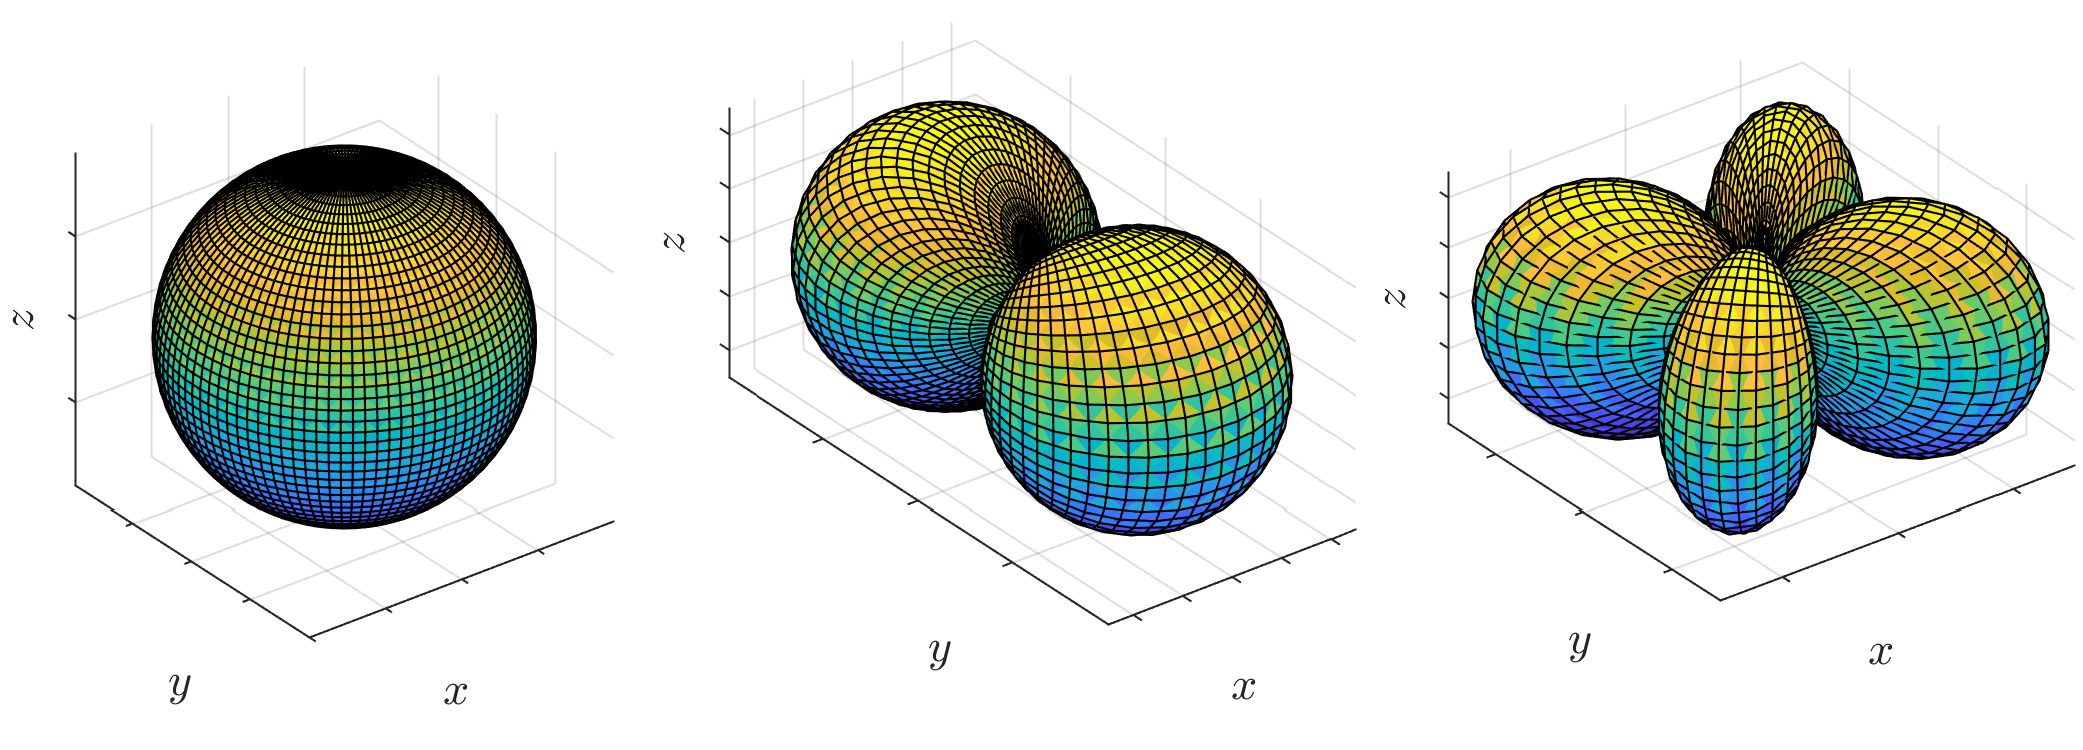
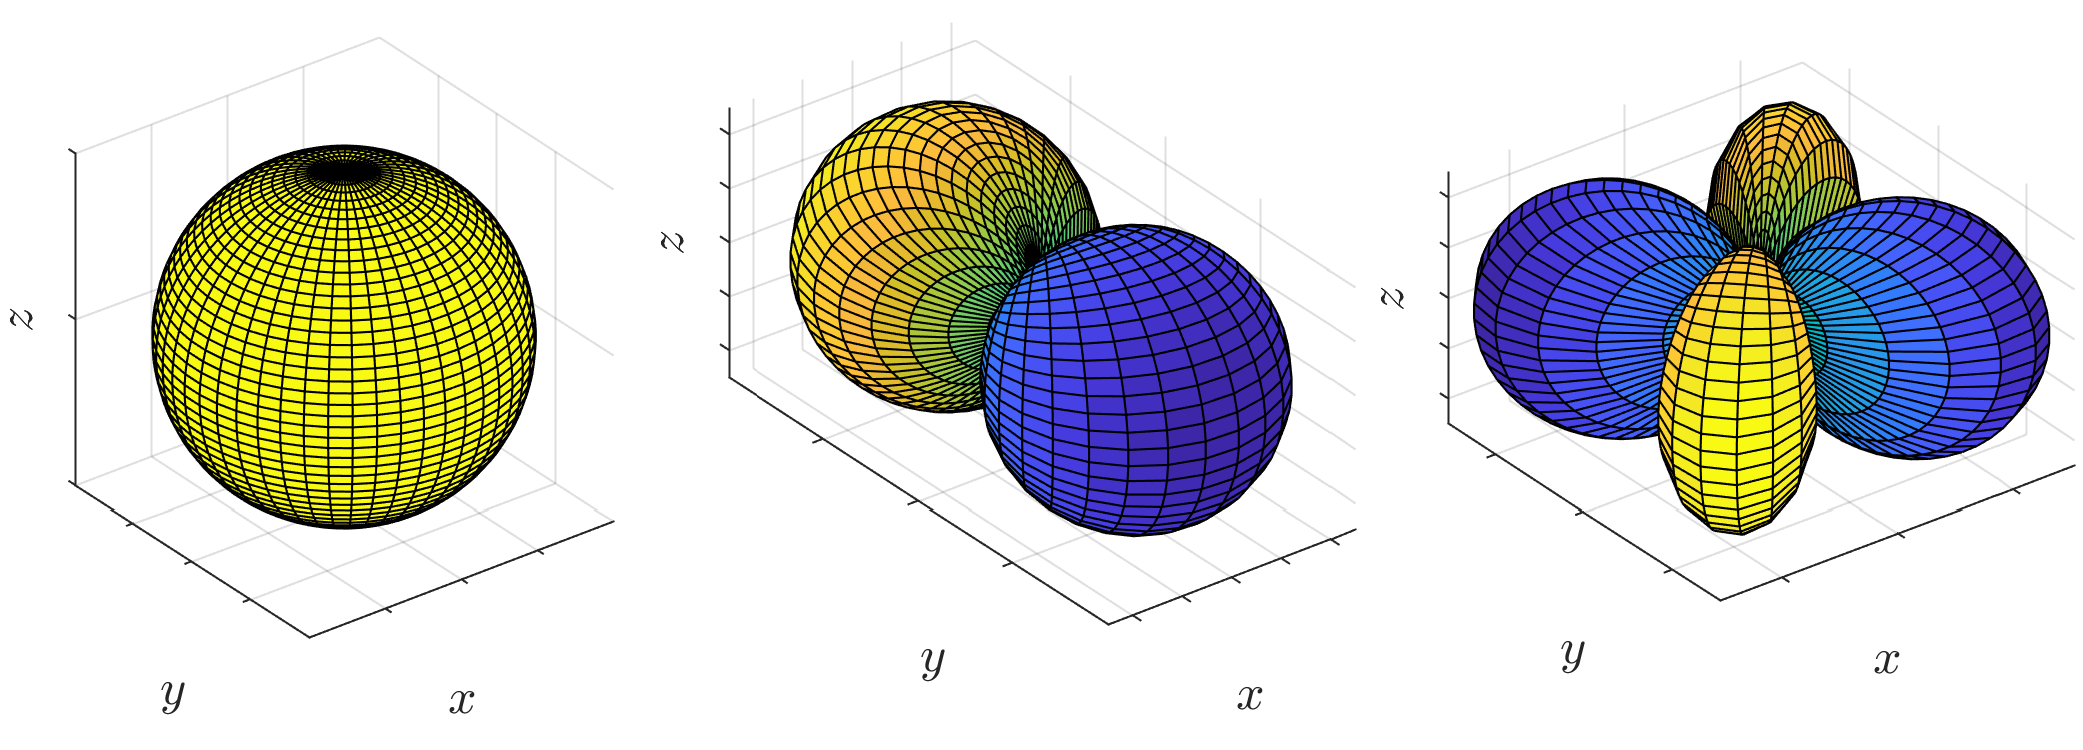
..

diff --git a/LatexProject/general_wave_theory.tex b/LatexProject/general_wave_theory.tex
@@ -352,15 +352,15 @@ P(\vx,\omega) = \frac{1}{4\pi^2}\iint_{-\infty}^{\infty} \tilde{P}(k_x,y_0,k_z,\
 \td k_x\td k_z.
 \label{Eq:Theory:Pressure_propagated}
 \end{equation}
-By expressing $\tilde{P}(k_x,y_0,k_z,\omega)$ in terms of the normal velocity $\tilde{V}_{\mathrm{n}}(k_x,y_0,k_z,\omega)$ using the Euler's equation  \eqref{Eq:Theory:Freq_Eulers_equation}, with the normal ($y$) derivative at $y = y_0$ calculated by applying the differentiation theorem one obtains
+By expressing $\tilde{P}(k_x,y_0,k_z,\omega)$ in terms of the normal velocity $\tilde{V}_{\mathrm{n}}(k_x,y_0,k_z,\omega)$ using the Euler's equation  \eqref{Eq:Theory:Freq_Eulers_equation}, with the normal ($y$-) derivative at $y = y_0$ calculated by applying the differentiation theorem one obtains
 \begin{equation}
 P(\vx,\omega) = \frac{1}{4\pi^2}\iint_{-\infty}^{\infty} 
-\underbrace{ \omega \rho_0 \tilde{V}_{\mathrm{n}}(k_x,y_0,k_z,\omega)}_{-\frac{1}{\ti} \frac{\partial}{\partial y} \tilde{P}(k_x,y_0,k_z,\omega) }
-\frac{\te^{-\ti k_y ( y - y_0 ) } }{k_y} \te^{- \ti \left( k_x x + k_z z \right) }
+\underbrace{ \ti \omega \rho_0 \tilde{V}_{\mathrm{n}}(k_x,y_0,k_z,\omega)}_{- \frac{\partial}{\partial y} \tilde{P}(k_x,y_0,k_z,\omega) }
+\frac{\te^{-\ti k_y ( y - y_0 ) } }{\ti k_y} \te^{- \ti \left( k_x x + k_z z \right) }
 \td k_x\td k_z.
 \label{Eq:Theory:Velocity_propagated}
 \end{equation}
-These formulations are of central importance in the field of Fourier acoustics. 
+These equations are of central importance in the field of Fourier acoustics. 
 They state that an arbitrary sound field is completely determined by either the pressure, or by the normal velocity component measured along an infinite plane. 
 Wave propagation is calculated by multiplying the measured spectra with an exponential term, referred to as the \emph{pressure propagator} $\tilde{G}_p$ in \eqref{Eq:Theory:Pressure_propagated} and the \emph{velocity propagator} $\tilde{G}_v$ in \eqref{Eq:Theory:Velocity_propagated}:
 \begin{equation}
@@ -400,14 +400,14 @@ For a detailed investigation refer to \cite{Williams1999, Zotter2009phd, Fazi201
 \subsection{The Green's function}
 %First the solution for \eqref{Eq:Theory:Inhomogene_wave_eq_time_domain} is introduced.
 A common way to obtain the solution for the inhomogeneous wave equation is using the \emph{Green's function}. 
-We define the $n$-dimensional \emph{Green's function} as the solution for the following equation \cite{Gumerov2004, Williams1999}
+The $n$-dimensional \emph{Green's function} is defined as the solution for the following equation \cite{Gumerov2004, Williams1999}
 \begin{equation}
 \nabla^2 g(\vx|\vxo,t) -\frac{1}{c^2}\frac{\partial^2}{\partial t^2} g(\vx|\vxo,t) = -\delta\left( \vx - \vxo \right)\delta\left( t \right),\label{Eq:Theory:Green_function_def}
 \end{equation}
 with $\vx, \vxo \in \mathbb{R}^{n}$ and $\delta()$ being the Dirac-delta distribution. 
-The Green's function describes the sound field at $\vx$ due to an impulsive disturbance located at $\vxo$ at the time instant $t_0$.
+The Green's function describes the sound field at $\vx$ due to an impulsive disturbance located at $\vxo$ at the time instant $t = 0$.
 The Green's function is often referred to as the \emph{spatio-temporal impulse response} of the domain of interest and its temporal Fourier transform $G(\vx|\vxo,\omega)$ as the \emph{spatio-temporal transfer function} of a point source at $\vxo$. 
-In the followings we assume free field conditions by implying the Sommerfeld radiation condition. 
+In the followings free field conditions are assumed by invoking the Sommerfeld radiation condition. 
 Under these assumptions the \emph{free field Green's function} is translation invariant, denoted by $g(\vx-\vxo,t)$.
 Furthermore, in a stationary isotropic medium the \emph{reciprocity principle} for the Green's function holds due to its symmetry \cite{Stakgold2011}
 \begin{eqnarray}
@@ -449,13 +449,14 @@ and the solution in the spatio-temporal domain is yielded by the inverse Fourier
 p(\vx,t) =\frac{1}{(2\pi)^4} \iiiint^{\infty}_{-\infty} - \frac{\tilde{S}(\mathbf{k},\omega)}{\left( \frac{\omega}{c}\right)^2 -  k_x^2 - k_y^2 - k_z^2 } \te^{-\ti \left( \left< \vk \cdot \vx \right> - \omega t \right) } \td k_x \td k_y \td k_z \td \omega.
 \end{equation}
 The different representations of the free field Green's function may be obtained by the corresponding inverse Fourier transform of \eqref{Eq:Theory:3D_kxkykzw_Green}.
-The resulting formulas are collected in Table\ \ref{tab:theory:Greens_fun_representations} by taking only the causal solutions into consideration.
+The resulting formulas are collected in Table\ \ref{tab:theory:Greens_fun_representations} by taking only the causal solutions into consideration,
+with two representations of the 3D Green's function are depicted in Figure \ref{Fig:Theory:Greens_function}.
 
 \begin{table}[h!]
 \caption{Free field acoustic Green's function representations ($\vxo = 0$) \cite{Devaney2012, Duffy2001:Greens, Ahrens2010a, Ahrens2012, Gibson2008, DeSanto1992}.
 $\theta\left( \right)$ denotes the Heaviside step function, $H_0^{(2)}\left( \right)$ is the zeroth order Hankel function of the second kind and $K_0
 \left( \right)$ is the modified Bessel function of the second kind \cite{Nist2010}.
-The conditional expressions ensure that evanescent waves are attenuated with increasing distance from the source. For the sake of brevity in the followings Greens function is expressed only in the propagating region, however it should be kept in mind that evanescent wavenumber components are defined as given in \eqref{eq:theory:k_y_definition}, resulting in the presented conditional expressions.
+The conditional expressions ensure that evanescent waves are attenuated with increasing distance from the source. For the sake of brevity in the followings Greens function is expressed only in the propagating region, however it should be kept in mind that evanescent wavenumber components are given as \eqref{eq:theory:k_y_definition}, resulting in the presented conditional expressions.
 }
 \FloatBarrier
 \renewcommand*{\arraystretch}{2.25}
@@ -492,7 +493,6 @@ The conditional expressions ensure that evanescent waves are attenuated with inc
     \end{tabular}}
 \end{table}
 \FloatBarrier
-Two representations of the 3D Green's function are depicted in Figure \ref{Fig:Theory:Greens_function}.
 
 \begin{figure}
 	\centering
@@ -501,7 +501,7 @@ Two representations of the 3D Green's function are depicted in Figure \ref{Fig:T
 	\put(2,2){(a)}
 	\put(50,2){(b)}
 	\end{overpic}
-	\caption{Different representations of the 3D free field Green's function in the angular frequency domain $G(x,y,z,\omega)$, with $\lambda = \frac{c}{f} = \frac{2\pi c}{\omega}$ (a) and in the semi-wavenumber domain (i.e. the angular spectrum) $\tilde{G}(k_x,k_y,z,\omega)$ (b) shown at $z=0$.}
+	\caption{Different representations of the 3D free field Green's function in the angular frequency domain $G(x,y,z,\omega)$, with $\lambda = \frac{2\pi c}{\omega} = \frac{2 \pi}{k}$ (a) and in the semi-wavenumber domain (i.e. the angular spectrum) $\tilde{G}(k_x,k_y,z,\omega)$ (b) measured at $z=0$.}
 	\label{Fig:Theory:Greens_function}
 \end{figure}
 %
@@ -537,12 +537,13 @@ From the general solution the case of point-like disturbances are of special int
 	\put(35,0){(b)}
 	\put(68,0){(c)}
 	\end{overpic}
-	\caption{ Directivity characteristics of a monopole (a), a dipole with the dipole axis being the $y$ axis (b) and a horizontal quadrupole constructed from two opposing dipoles in the horizontal plane (c). All multipoles are solutions to the wave equation due to its linearity.\fscom{give a hint what exactly is plotted, abs/dB, maybe improved resolution without meshlines?}}
+	\caption{Directivity characteristics of a monopole (a), a dipole with the dipole axis being the $y$ axis (b) and a horizontal quadrupole constructed from two opposing dipoles in the horizontal plane (c). 
+	In the figures the from the origin denotes the absolute value of the directivity into the given direction, with the sign indicated by the color of the surface. }
 	\label{Fig:Theory:multipoles}
 \end{figure}
 \begin{itemize}
 %
-\item supposing that $Q(\vxo,\omega) = \hat{Q}(\omega)\delta(\vx)$ one obtains the field response to a point-like volume injection
+\item supposing that $Q(\vx,\omega) = \hat{Q}(\omega)\delta(\vx)$ one obtains the field response to a point-like volume injection
 \begin{equation}
 P_{\mathrm{m}}(\vx,\omega) = - \frac{\ti \omega \rho_0 \hat{Q}(\omega)}{4\pi} \frac{\te^{-\ti \frac{\omega}{c}|\vx-\vxo|}}{|\vx-\vxo|}.
 \end{equation}
@@ -568,9 +569,9 @@ Unlike monopoles, dipoles are directive sources, with the directivity characteri
 Dipoles give a good model for e.g. unbaffled loudspeakers, moving freely in the fluid, radiating maximally into the direction of motion $\mathbf{f}$ often termed the \emph{dipole axis}, and without any lateral radiation.
 %
 \end{itemize}
-The importance of monopoles and dipoles along with higher order \emph{multipoles} lies in the far-field approximation of the field of extended sources,
-where a complex radiation pattern may be expanded into series of weighted multipole fields, termed \emph{multipole expansion}.
+The importance of monopoles and dipoles along with higher order \emph{multipoles} lies in the far-field approximation of the field of extended sources, where a complex radiation pattern may be expanded into series of weighted multipole fields, termed \emph{multipole expansion}.
 Figure \ref{Fig:Theory:multipoles} presents the directivity pattern of multipoles up to the third order.
+All multipoles are solutions to the wave equation due to its linearity.
 
 Comparison of $\tilde{G}(k_x,y,k_z,\omega)$ in Table \ref{tab:theory:Greens_fun_representations}  with the pressure and velocity propagators \eqref{Eq:Theory:propagators} and by applying the Fourier differentiation theorem \eqref{eq:Theory:Fourier_diff} reveals that
 \begin{align}
@@ -597,7 +598,7 @@ The effect of direct sources inside the enclosure may be straightforwardly inclu
 	\centering
 	\begin{overpic}[width = .65\columnwidth ]{Figures/Basic_acoustics/Kirchhoff-Helmholtz.png}
 	\small
-	\put(0,23){primary source}
+	\put(-2,23){primary source}
 		\put(48,1){$\mathbf{O}$}
 		\put(70.5,31){$\vx$}
 		\put(36.5,13.5){$\vxo$}

diff --git a/LatexProject/MATLAB/Chapter_2_Theory_of_wave_propagation/Fig_2_4_Multipole_directivities.m b/LatexProject/MATLAB/Chapter_2_Theory_of_wave_propagation/Fig_2_4_Multipole_directivities.m
@@ -1,62 +1,64 @@
-clear all
+clear
 close all
 
-fi = linspace(0,2*pi,50);
-theta = linspace(-pi,pi,50);
-[Fi,Theta] = meshgrid(fi,theta);
+phi = linspace(0,2*pi,50);
+el = linspace(-pi/2,pi/2,50);
+[Phi,El] = meshgrid(phi, el);
 
-monopole = 1;
-dipole = sin(Fi).*cos(Theta);
-quadrupole = sin(2*Fi).*cos(Theta);
+monopole = ones(size(Phi));
+dipole = sin(Phi).*cos(El);
+quadrupole = sin(2*Phi).*cos(El);
 
 
-[X1,Y1,Z1] = sph2cart(Fi, Theta ,abs(monopole));
-[X2,Y2,Z2] = sph2cart(Fi, Theta ,abs(dipole));
-[X3,Y3,Z3] = sph2cart(Fi, Theta ,abs(quadrupole));
+[X1,Y1,Z1] = sph2cart(Phi, El ,abs(monopole));
+[X2,Y2,Z2] = sph2cart(Phi, El ,abs(dipole));
+[X3,Y3,Z3] = sph2cart(Phi, El ,abs(quadrupole));
 %%
 ftsize = 11;
 f = figure('Units','points','Position',[200,200,500,180]);
 set(f,'defaulttextinterpreter','latex')
 
-pos = [ 0.0    0.15 0.33 .8 
-        0.35  0.15 0.3 .85
-        0.695   0.15 0.3 .85 ];
+pos = [ 0.0     0.15 0.33 .8 
+        0.35    0.15 0.3  .85
+        0.695   0.15 0.3  .85 ];
         
     
 p1 = axes('Units','normalized','Position',pos(1,:));
 set(gca,'TickLabelInterpreter', 'tex');
-surf(X1,Y1,Z1);
+surf(X1,Y1,Z1,monopole);
 axis equal tight
 xlabel('$x$','FontSize',ftsize);
 ylabel('$y$','FontSize',ftsize);
 zlabel('$z$','FontSize',ftsize);
 set(gca,'FontName','Times New Roman');
 set(gca,'XTickLabel','','YTickLabel','','ZTickLabel','');
+caxis([-1,1])
 
 p2 = axes('Units','normalized','Position',pos(2,:));
 set(gca,'TickLabelInterpreter', 'tex');
-surf(X2,Y2,Z2);
+surf(X2,Y2,Z2,dipole);
 axis equal tight
 xlabel('$x$','FontSize',ftsize);
 ylabel('$y$','FontSize',ftsize);
 zlabel('$z$','FontSize',ftsize);
 set(gca,'FontName','Times New Roman');
 set(gca,'XTickLabel','','YTickLabel','','ZTickLabel','');
+caxis([-1,1])
 
 p3 = axes('Units','normalized','Position',pos(3,:));
 set(gca,'TickLabelInterpreter', 'tex');
-surf(X3,Y3,Z3);
+surf(X3,Y3,Z3,quadrupole);
 axis equal tight
 xlabel('$x$','FontSize',ftsize);
 ylabel('$y$','FontSize',ftsize);
 zlabel('$z$','FontSize',ftsize);
 set(gca,'FontName','Times New Roman');
 set(gca,'XTickLabel','','YTickLabel','','ZTickLabel','');
-
+caxis([-1,1])
 
 set(gca,'FontName','Times New Roman');
 allAxesInFigure = findall(f,'type','axes');
-b = get(gca,'XTickLabel');
+set(allAxesInFigure,'FontSize',ftsize);
 
 set(gcf,'PaperPositionMode','auto');
 print( '-r300', fullfile( '../..','Figures/Basic_acoustics','monopole_dipole' ) ,'-dpng')

diff --git a/LatexProject/acknowledgement.tex b/LatexProject/acknowledgement.tex
@@ -10,7 +10,7 @@
 
 \fscom{a overwiev table with results for the principle radii/curvatures/phase functions and its derivatives and all the inherent links at least for the 2.5D SDM / WFS of a point source would be very helful when recalculating all the derivations}
 
-\fscom{since for plane waves the SPA and SDM not holds in strictly sense, you might show the limiting case for a point source very far away, reducing to no curvarture?? this should end in plane wave drinfing functions, or? I've checked this at once numerically once with the parallel / ref point referencing \\
+\fscom{since for plane waves the SPA and SDM not holds in strictly sense, you might show the limiting case for a point source very far away, reducing to no curvarture?? this should end in plane wave drinfing functions, or? I've checked this at once numerically once with the parallel / ref point referencing }
 
 FG comments:\\
 Do I need $\Omega \in \mathcal{R}^n$?  
@@ -27,6 +27,7 @@ Nomenclature:
 \item steady-state
 \item source-free
 \item free field??
+\item free-space???
 \item $f$ for frequency is not defined (BTW, $\omega$ is not defined either)
 \item Ordering citations (in case of multiple citation)
 \item Check 2.33

diff --git a/LatexProject/MATLAB/Chapter_2_Theory_of_wave_propagation/Fig_2_3_Greens_function_illustration.m b/LatexProject/MATLAB/Chapter_2_Theory_of_wave_propagation/Fig_2_3_Greens_function_illustration.m
@@ -76,9 +76,9 @@ ax2.ZTickLabel = ax2.ZTick/scale;
 ax2.XTick = k*(-1:1:1);
 ax2.YTick = k*(-1:1:1);
 tik_n2 = cell(7,1); 
-tik_n2{1} = '-1\omega/\it{c}';
+tik_n2{1} = '-\omega/\it{c}';
 tik_n2{2} = '0';
-tik_n2{3} = '1\omega/\it{c}';
+tik_n2{3} = '\omega/\it{c}';
 ax2.XTickLabel = tik_n2;
 ax2.YTickLabel = tik_n2;
 set(gca,'TickLabelInterpreter', 'tex');
@@ -87,6 +87,8 @@ ylabel('$k_y \rightarrow \mathrm{[rad/m]}$','Interpreter','latex','FontSize',fts
 zlabel('$|(\tilde{G}(k_x,k_y,0,\omega_0)|$','Interpreter','latex','FontSize',ftsize);
 
 set(gca,'FontName','Times New Roman');
+allAxesInFigure = findall(f,'type','axes');
+set(allAxesInFigure,'FontSize',ftsize);
 
 
 set(gcf,'PaperPositionMode','auto');

diff --git a/LatexProject/main.tex b/LatexProject/main.tex
@@ -1,4 +1,4 @@
-\documentclass[%
+	\documentclass[%
 	paper=A4,					% paper size
 	twoside=true,				% onesite or twoside printing
 	openright,					% doublepage cleaning ends up right side
